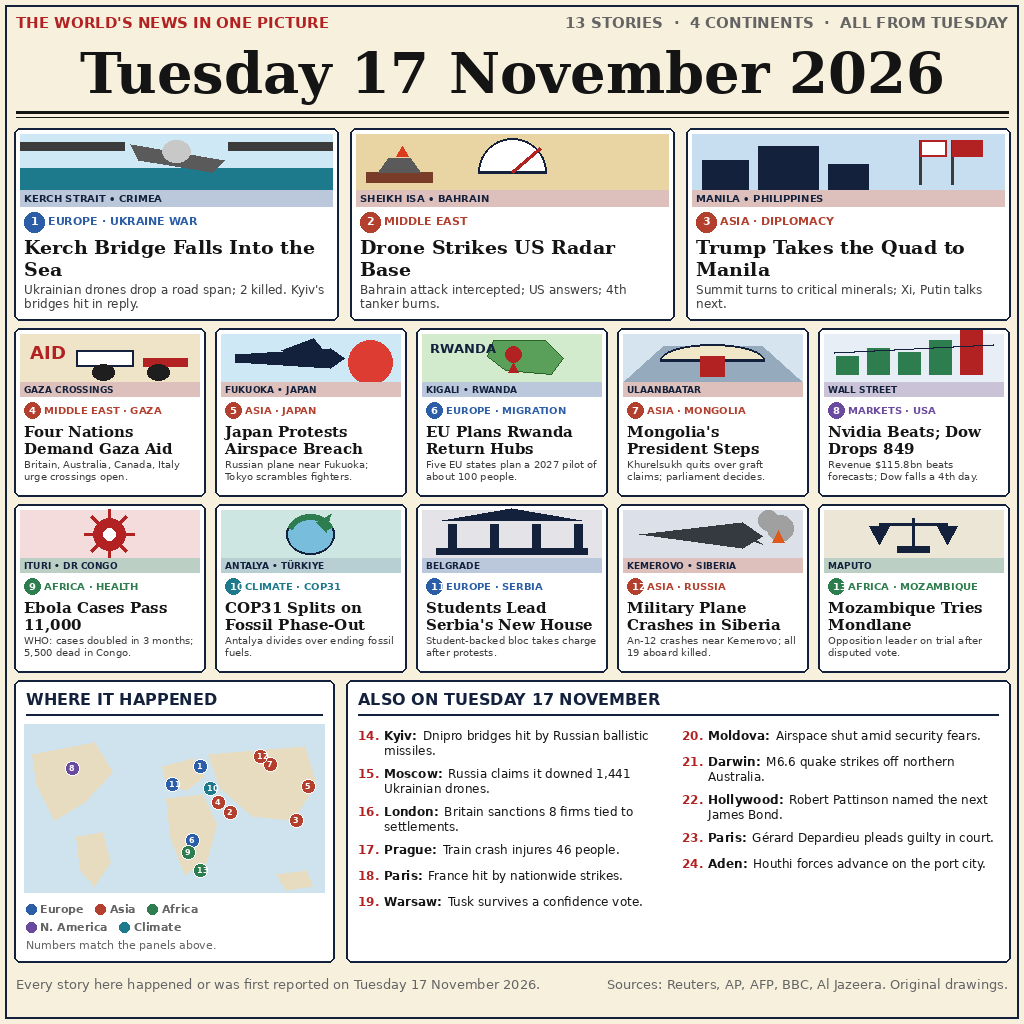
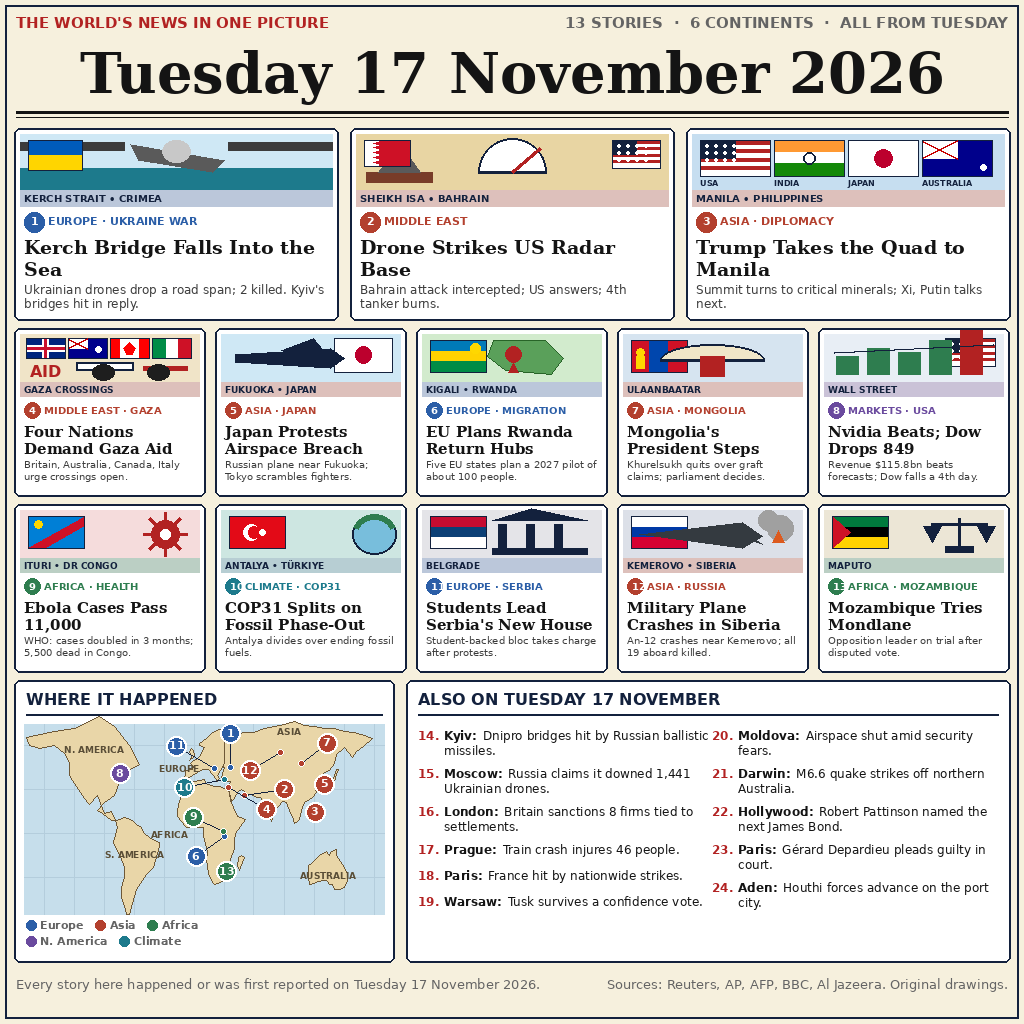
Revise: clearer world map and country flags

diff --git a/tools/generate-image.py b/tools/generate-image.py
@@ -47,13 +47,91 @@ def wrap(draw, text, fnt, width):
         lines.append(cur)
     return lines
 
+# ---------- flags (simple, recognisable patterns, drawn from scratch) ----------
+def stripes(x, y, w, h, cols):
+    n = len(cols)
+    for i, c in enumerate(cols):
+        d.rectangle([x, y + i * h // n, x + w, y + (i + 1) * h // n], fill=c)
+
+def flag(kind, x, y, w, h):
+    """Draw a small but recognisable flag; always with a thin outline."""
+    d.rectangle([x, y, x + w, y + h], fill=(255, 255, 255), outline=NAVY, width=1)
+    if kind == "us":
+        stripes(x + 1, y + 1, w - 2, h - 2, [(178, 34, 34), (255, 255, 255)] * 4)
+        d.rectangle([x + 1, y + 1, x + w // 2, y + h // 2], fill=NAVY)
+        for r in range(3):
+            for c in range(4):
+                d.ellipse([x + 5 + c * 9, y + 4 + r * 7, x + 8 + c * 9, y + 7 + r * 7], fill=(255, 255, 255))
+    elif kind == "jp":
+        d.ellipse([x + w // 2 - h // 4, y + h // 4, x + w // 2 + h // 4, y + 3 * h // 4], fill=(188, 0, 45))
+    elif kind == "ukraine":
+        stripes(x + 1, y + 1, w - 2, h - 2, [(0, 91, 187), (255, 213, 0)])
+    elif kind == "mongolia":
+        d.rectangle([x + 1, y + 1, x + w // 3, y + h - 1], fill=(206, 17, 38))
+        d.rectangle([x + w // 3, y + 1, x + 2 * w // 3, y + h - 1], fill=(0, 70, 173))
+        d.rectangle([x + 2 * w // 3, y + 1, x + w - 1, y + h - 1], fill=(206, 17, 38))
+        d.ellipse([x + 5, y + h // 4, x + 13, y + h // 4 + 8], fill=(255, 215, 0))
+        d.rectangle([x + 5, y + h // 2, x + 13, y + h - 4], fill=(255, 215, 0))
+    elif kind == "serbia":
+        stripes(x + 1, y + 1, w - 2, h - 2, [(198, 12, 48), (12, 64, 118), (255, 255, 255)])
+    elif kind == "mozambique":
+        stripes(x + 1, y + 1, w - 2, h - 2, [(0, 122, 61), (0, 0, 0), (255, 210, 0)])
+        d.polygon([(x + 1, y + 1), (x + w // 3, y + h // 2), (x + 1, y + h - 1)], fill=(206, 17, 38))
+    elif kind == "philippines":
+        d.rectangle([x + 1, y + 1, x + w - 1, y + h // 2], fill=(0, 56, 168))
+        d.rectangle([x + 1, y + h // 2, x + w - 1, y + h - 1], fill=(206, 17, 38))
+        d.polygon([(x + 1, y + 1), (x + w // 2, y + h // 2), (x + 1, y + h - 1)], fill=(255, 255, 255))
+        d.ellipse([x + 6, y + h // 2 - 4, x + 14, y + h // 2 + 4], fill=(255, 215, 0))
+    elif kind == "rwanda":
+        stripes(x + 1, y + 1, w - 2, h - 2, [(0, 122, 184), (255, 210, 0), (0, 140, 70)])
+        d.ellipse([x + w - 16, y + 3, x + w - 6, y + 13], fill=(255, 215, 0))
+    elif kind == "congo":
+        d.rectangle([x + 1, y + 1, x + w - 1, y + h - 1], fill=(0, 127, 214))
+        d.polygon([(x + 1, y + h - 1), (x + w - 1, y + 1), (x + w - 1, y + h // 3), (x + w // 3, y + h - 1)], fill=(206, 17, 38))
+        d.ellipse([x + 6, y + 4, x + 14, y + 12], fill=(255, 215, 0))
+    elif kind == "turkiye":
+        d.rectangle([x + 1, y + 1, x + w - 1, y + h - 1], fill=(227, 10, 23))
+        d.ellipse([x + w // 4, y + h // 4, x + w // 4 + h // 2, y + 3 * h // 4], fill=(255, 255, 255))
+        d.ellipse([x + w // 4 + 5, y + h // 4 + 2, x + w // 4 + h // 2, y + 3 * h // 4 - 2], fill=(227, 10, 23))
+        d.ellipse([x + w // 2 + 2, y + h // 2 - 3, x + w // 2 + 8, y + h // 2 + 3], fill=(255, 255, 255))
+    elif kind == "india":
+        stripes(x + 1, y + 1, w - 2, h - 2, [(255, 153, 51), (255, 255, 255), (19, 136, 8)])
+        d.ellipse([x + w // 2 - 6, y + h // 2 - 6, x + w // 2 + 6, y + h // 2 + 6], outline=NAVY, width=2)
+    elif kind == "australia":
+        d.rectangle([x + 1, y + 1, x + w - 1, y + h - 1], fill=(0, 0, 139))
+        d.rectangle([x + 1, y + 1, x + w // 2, y + h // 2], fill=(255, 255, 255))
+        d.line([x + 1, y + 1, x + w // 2, y + h // 2], fill=(200, 0, 0), width=2)
+        d.line([x + w // 2, y + 1, x + 1, y + h // 2], fill=(200, 0, 0), width=2)
+        d.ellipse([x + w - 12, y + h - 12, x + w - 6, y + h - 6], fill=(255, 255, 255))
+    elif kind == "uk":
+        d.rectangle([x + 1, y + 1, x + w - 1, y + h - 1], fill=(0, 36, 125))
+        d.rectangle([x + w // 2 - 3, y + 1, x + w // 2 + 3, y + h - 1], fill=(255, 255, 255))
+        d.rectangle([x + 1, y + h // 2 - 3, x + w - 1, y + h // 2 + 3], fill=(255, 255, 255))
+        d.rectangle([x + w // 2 - 1, y + 1, x + w // 2 + 1, y + h - 1], fill=(200, 16, 46))
+        d.rectangle([x + 1, y + h // 2 - 1, x + w - 1, y + h // 2 + 1], fill=(200, 16, 46))
+    elif kind == "canada":
+        d.rectangle([x + 1, y + 1, x + w // 4, y + h - 1], fill=(255, 0, 0))
+        d.rectangle([x + 3 * w // 4, y + 1, x + w - 1, y + h - 1], fill=(255, 0, 0))
+        d.polygon([(x + w // 2, y + 4), (x + w // 2 + 6, y + h // 2), (x + w // 2 + 3, y + h - 4),
+                   (x + w // 2 - 3, y + h - 4), (x + w // 2 - 6, y + h // 2)], fill=(255, 0, 0))
+    elif kind == "italy":
+        d.rectangle([x + 1, y + 1, x + w // 3, y + h - 1], fill=(0, 140, 70))
+        d.rectangle([x + 2 * w // 3, y + 1, x + w - 1, y + h - 1], fill=(206, 17, 38))
+    elif kind == "bahrain":
+        d.rectangle([x + w // 3, y + 1, x + w - 1, y + h - 1], fill=(206, 17, 38))
+        for i in range(5):
+            yy = y + 1 + i * (h - 2) // 5
+            d.polygon([(x + w // 3, yy), (x + w // 3 - 6, yy + (h - 2) // 10), (x + w // 3, yy + (h - 2) // 5)], fill=(206, 17, 38))
+    elif kind == "russia":
+        stripes(x + 1, y + 1, w - 2, h - 2, [(255, 255, 255), (0, 57, 166), (213, 0, 50)])
+
 img = Image.new("RGB", (W, H), PAPER)
 d = ImageDraw.Draw(img)
 d.rectangle([5, 5, W - 6, H - 6], outline=NAVY, width=2)
 
 # ---------- header ----------
 d.text((16, 14), "THE WORLD'S NEWS IN ONE PICTURE", font=font(SANSB, 15), fill=RED)
-right = "13 STORIES  ·  4 CONTINENTS  ·  ALL FROM TUESDAY"
+right = "13 STORIES  ·  6 CONTINENTS  ·  ALL FROM TUESDAY"
 d.text((W - 16 - d.textlength(right, font=font(SANSB, 15)), 14), right,
        font=font(SANSB, 15), fill=GREY)
 # ---------- giant date ----------
@@ -73,6 +151,7 @@ def pic(kind, x, y, w, h):
         d.polygon([(x + w // 3 + 6, y + h - 46), (x + 2 * w // 3 - 4, y + h - 30),
                    (x + 2 * w // 3 - 16, y + h - 18), (x + w // 3 + 14, y + h - 30)], fill=(90, 90, 90))
         d.ellipse([x + w // 2 - 14, y + 6, x + w // 2 + 14, y + 28], fill=(200, 200, 200))
+        flag("ukraine", x + 8, y + 6, 54, 30)
     elif kind == "radar":
         d.rectangle([x, y, x + w, y + h], fill=(232, 213, 163))
         d.pieslice([x + w // 2 - 34, y + 4, x + w // 2 + 34, y + 72], 180, 360,
@@ -82,42 +161,47 @@ def pic(kind, x, y, w, h):
         d.polygon([(x + 22, y + h - 18), (x + 64, y + h - 18), (x + 54, y + h - 32), (x + 32, y + h - 32)],
                   fill=(90, 90, 90))
         d.polygon([(x + 40, y + h - 34), (x + 46, y + h - 44), (x + 52, y + h - 34)], fill=(220, 60, 30))
+        flag("bahrain", x + 8, y + 6, 46, 26)
+        flag("us", x + w - 56, y + 6, 48, 28)
     elif kind == "summit":
         d.rectangle([x, y, x + w, y + h], fill=(198, 222, 240))
-        for bx, bw, bh in [(x + 10, 46, 30), (x + 66, 60, 44), (x + 136, 40, 26)]:
-            d.rectangle([bx, y + h - bh, bx + bw, y + h], fill=NAVY)
-        d.line([x + w - 52, y + 6, x + w - 52, y + h - 6], fill=(60, 60, 60), width=3)
-        d.rectangle([x + w - 52, y + 6, x + w - 22, y + 22], fill=RED)
-        d.line([x + w - 84, y + 6, x + w - 84, y + h - 6], fill=(60, 60, 60), width=3)
-        d.rectangle([x + w - 84, y + 6, x + w - 58, y + 22], fill=(255, 255, 255), outline=RED, width=2)
+        fw = (w - 32) // 4
+        for i, (fk, lab) in enumerate([("us", "USA"), ("india", "INDIA"), ("jp", "JAPAN"), ("australia", "AUSTRALIA")]):
+            fx = x + 8 + i * (fw + 4)
+            flag(fk, fx, y + 6, fw, 36)
+            d.text((fx, y + 44), lab, font=font(SANSB, 8), fill=NAVY)
     elif kind == "truck":
         d.rectangle([x, y, x + w, y + h], fill=(240, 228, 200))
-        d.rectangle([x + 56, y + 16, x + w - 66, y + h - 16], fill=(255, 255, 255), outline=NAVY, width=2)
-        d.rectangle([x + w - 56, y + 24, x + w - 12, y + h - 16], fill=RED)
+        fw = (w - 20) // 4
+        for i, fk in enumerate(["uk", "australia", "canada", "italy"]):
+            flag(fk, x + 6 + i * (fw + 3), y + 4, fw, 20)
+        d.rectangle([x + 56, y + 28, x + w - 66, y + h - 12], fill=(255, 255, 255), outline=NAVY, width=2)
+        d.rectangle([x + w - 56, y + 32, x + w - 12, y + h - 12], fill=RED)
         d.ellipse([x + 72, y + h - 18, x + 94, y + h - 2], fill=(30, 30, 30))
         d.ellipse([x + w - 52, y + h - 18, x + w - 30, y + h - 2], fill=(30, 30, 30))
-        d.text((x + 10, y + 8), "AID", font=font(SANSB, 18), fill=RED)
+        d.text((x + 10, y + 28), "AID", font=font(SANSB, 16), fill=RED)
     elif kind == "jet":
         d.rectangle([x, y, x + w, y + h], fill=(207, 232, 245))
-        d.ellipse([x + w - 52, y + 6, x + w - 8, y + 50], fill=(220, 60, 50))
+        flag("jp", x + w - 66, y + 4, 58, 34)
         d.polygon([(x + 14, y + h // 2 - 4), (x + w - 70, y + h // 2 - 10), (x + w - 56, y + h // 2),
                    (x + w - 70, y + h // 2 + 10), (x + 14, y + h // 2 + 4)], fill=NAVY)
         d.polygon([(x + 60, y + h // 2 - 8), (x + 92, y + 4), (x + 102, y + h // 2 - 8)], fill=NAVY)
     elif kind == "map":
         d.rectangle([x, y, x + w, y + h], fill=(210, 235, 205))
+        flag("rwanda", x + 8, y + 6, 56, 32)
         d.polygon([(x + w // 2 - 18, y + 6), (x + w // 2 + 34, y + 6), (x + w // 2 + 52, y + 24),
                    (x + w // 2 + 40, y + h - 8), (x + w // 2 - 6, y + h - 12), (x + w // 2 - 24, y + 22)],
                   fill=(90, 160, 90), outline=(40, 100, 40))
         d.ellipse([x + w // 2 - 6, y + 12, x + w // 2 + 10, y + 28], fill=RED)
         d.polygon([(x + w // 2 + 2, y + 28), (x + w // 2 - 3, y + 38), (x + w // 2 + 7, y + 38)], fill=RED)
-        d.text((x + 8, y + 6), "RWANDA", font=font(SANSB, 13), fill=NAVY)
     elif kind == "yurt":
         d.rectangle([x, y, x + w, y + h], fill=(214, 228, 240))
-        d.polygon([(x, y + h), (x + 40, y + 12), (x + w - 40, y + 12), (x + w, y + h)], fill=(150, 170, 190))
+        flag("mongolia", x + 8, y + 6, 56, 32)
         d.pieslice([x + w // 2 - 52, y + 10, x + w // 2 + 52, y + h - 6], 180, 360, fill=(240, 230, 200), outline=NAVY, width=2)
         d.rectangle([x + w // 2 - 12, y + h - 26, x + w // 2 + 12, y + h - 6], fill=RED)
     elif kind == "chart":
         d.rectangle([x, y, x + w, y + h], fill=(232, 238, 245))
+        flag("us", x + w - 58, y + 4, 50, 28)
         bars = [18, 26, 22, 34, 44]
         for i, bh in enumerate(bars):
             bx = x + 12 + i * ((w - 24) // 5)
@@ -125,27 +209,30 @@ def pic(kind, x, y, w, h):
         d.line([x + 10, y + h - 30, x + w - 10, y + 10], fill=NAVY, width=2)
     elif kind == "virus":
         d.rectangle([x, y, x + w, y + h], fill=(245, 220, 220))
-        cx, cy, r = x + w // 2, y + h // 2, 16
+        flag("congo", x + 8, y + 6, 56, 32)
+        cx, cy, r = x + w - 34, y + h // 2, 14
         for ang in range(0, 360, 45):
             import math
             dx, dy = math.cos(math.radians(ang)), math.sin(math.radians(ang))
-            d.line([cx + dx * r, cy + dy * r, cx + dx * (r + 9), cy + dy * (r + 9)], fill=RED, width=3)
+            d.line([cx + dx * r, cy + dy * r, cx + dx * (r + 8), cy + dy * (r + 8)], fill=RED, width=3)
         d.ellipse([cx - r, cy - r, cx + r, cy + r], fill=RED)
-        d.ellipse([cx - 6, cy - 6, cx + 6, cy + 6], fill=(255, 255, 255))
+        d.ellipse([cx - 5, cy - 5, cx + 5, cy + 5], fill=(255, 255, 255))
     elif kind == "globe":
         d.rectangle([x, y, x + w, y + h], fill=(205, 230, 225))
-        d.ellipse([x + w // 2 - 24, y + 4, x + w // 2 + 24, y + h - 4], fill=(120, 190, 220), outline=NAVY, width=2)
-        d.arc([x + w // 2 - 24, y + 4, x + w // 2 + 24, y + h - 4], 200, 340, fill=GREEN, width=6)
-        d.polygon([(x + w // 2 + 6, y + 12), (x + w // 2 + 20, y + 4), (x + w // 2 + 16, y + 22)], fill=GREEN)
+        flag("turkiye", x + 8, y + 6, 56, 32)
+        d.ellipse([x + w - 48, y + 4, x + w - 4, y + h - 4], fill=(120, 190, 220), outline=NAVY, width=2)
+        d.arc([x + w - 48, y + 4, x + w - 4, y + h - 4], 200, 340, fill=GREEN, width=6)
     elif kind == "parliament":
         d.rectangle([x, y, x + w, y + h], fill=(228, 228, 232))
-        d.polygon([(x + 20, y + 10), (x + w // 2, y - 2), (x + w - 20, y + 10)], fill=NAVY)
-        for i in range(4):
-            cx = x + 26 + i * ((w - 52) // 3)
+        flag("serbia", x + 8, y + 6, 56, 32)
+        d.polygon([(x + 70, y + 10), (x + w // 2 + 20, y - 2), (x + w - 14, y + 10)], fill=NAVY)
+        for i in range(3):
+            cx = x + 76 + i * 28
             d.rectangle([cx, y + 14, cx + 8, y + h - 8], fill=NAVY)
-        d.rectangle([x + 14, y + h - 10, x + w - 14, y + h - 4], fill=NAVY)
+        d.rectangle([x + 70, y + h - 10, x + w - 14, y + h - 4], fill=NAVY)
     elif kind == "crash":
         d.rectangle([x, y, x + w, y + h], fill=(220, 224, 232))
+        flag("russia", x + 8, y + 6, 56, 32)
         d.polygon([(x + 16, y + h // 2), (x + w - 60, y + h // 2 - 12), (x + w - 40, y + h // 2 + 2),
                    (x + w - 60, y + h // 2 + 14)], fill=SLATE)
         d.polygon([(x + w - 66, y + h // 2 - 8), (x + w - 40, y + h - 14), (x + w - 52, y + h // 2 + 6)], fill=SLATE)
@@ -154,11 +241,12 @@ def pic(kind, x, y, w, h):
         d.polygon([(x + w - 30, y + h - 16), (x + w - 24, y + h - 28), (x + w - 18, y + h - 16)], fill=(220, 90, 30))
     elif kind == "scales":
         d.rectangle([x, y, x + w, y + h], fill=(236, 230, 214))
-        d.line([x + w // 2, y + 8, x + w // 2, y + h - 10], fill=NAVY, width=3)
-        d.line([x + w // 2 - 34, y + 14, x + w // 2 + 34, y + 14], fill=NAVY, width=3)
-        d.polygon([(x + w // 2 - 44, y + 16), (x + w // 2 - 24, y + 16), (x + w // 2 - 34, y + 34)], fill=NAVY)
-        d.polygon([(x + w // 2 + 24, y + 16), (x + w // 2 + 44, y + 16), (x + w // 2 + 34, y + 34)], fill=NAVY)
-        d.rectangle([x + w // 2 - 16, y + h - 12, x + w // 2 + 16, y + h - 6], fill=NAVY)
+        flag("mozambique", x + 8, y + 6, 56, 32)
+        d.line([x + w - 44, y + 8, x + w - 44, y + h - 10], fill=NAVY, width=3)
+        d.line([x + w - 72, y + 14, x + w - 16, y + 14], fill=NAVY, width=3)
+        d.polygon([(x + w - 80, y + 16), (x + w - 62, y + 16), (x + w - 71, y + 32)], fill=NAVY)
+        d.polygon([(x + w - 26, y + 16), (x + w - 8, y + 16), (x + w - 17, y + 32)], fill=NAVY)
+        d.rectangle([x + w - 58, y + h - 12, x + w - 30, y + h - 6], fill=NAVY)
 
 # ---------- panels ----------
 # (num, category, colour, headline, dek, caption, pic, region)
@@ -241,34 +329,62 @@ for row, group in enumerate((PANELS[3:8], PANELS[8:13])):
 
 # ---------- bottom: map + also list ----------
 by = 680
-# map panel (left, ~1/3)
-mx, mw, mh = 14, 320, 282
+# map panel (left, wider now so the world map can actually be read)
+mx, mw, mh = 14, 380, 282
 d.rounded_rectangle([mx, by, mx + mw, by + mh], radius=6, fill=(255, 255, 255), outline=NAVY, width=2)
 d.text((mx + 12, by + 10), "WHERE IT HAPPENED", font=font(SANSB, 16), fill=NAVY)
 d.line([mx + 12, by + 34, mx + mw - 12, by + 34], fill=NAVY, width=2)
-mapx, mapy, mapw, maph = mx + 10, by + 44, mw - 20, 168
-d.rectangle([mapx, mapy, mapx + mapw, mapy + maph], fill=(207, 227, 238))
-# simplified continents (cream land on pale sea)
-d.polygon([(mapx + 8, mapy + 30), (mapx + 70, mapy + 18), (mapx + 88, mapy + 48), (mapx + 60, mapy + 78),
-           (mapx + 30, mapy + 96), (mapx + 12, mapy + 60)], fill=(232, 220, 192))          # N America
-d.polygon([(mapx + 52, mapy + 112), (mapx + 78, mapy + 108), (mapx + 86, mapy + 138), (mapx + 70, mapy + 162),
-           (mapx + 56, mapy + 146)], fill=(232, 220, 192))                                 # S America
-d.polygon([(mapx + 138, mapy + 42), (mapx + 168, mapy + 34), (mapx + 180, mapy + 52), (mapx + 162, mapy + 66),
-           (mapx + 142, mapy + 60)], fill=(232, 220, 192))                                 # Europe
-d.polygon([(mapx + 142, mapy + 74), (mapx + 178, mapy + 70), (mapx + 192, mapy + 100), (mapx + 182, mapy + 138),
-           (mapx + 160, mapy + 150), (mapx + 146, mapy + 112)], fill=(232, 220, 192))      # Africa
-d.polygon([(mapx + 184, mapy + 30), (mapx + 280, mapy + 22), (mapx + 292, mapy + 60), (mapx + 268, mapy + 96),
-           (mapx + 228, mapy + 92), (mapx + 196, mapy + 64)], fill=(232, 220, 192))        # Asia
-d.polygon([(mapx + 252, mapy + 150), (mapx + 282, mapy + 146), (mapx + 288, mapy + 162), (mapx + 262, mapy + 166)],
-          fill=(232, 220, 192))                                                           # Australia
-PINS = {1: (176, 42), 2: (206, 88), 3: (272, 96), 4: (194, 78), 5: (284, 62), 6: (168, 116),
-        7: (246, 40), 8: (48, 44), 9: (164, 128), 10: (186, 64), 11: (148, 60), 12: (236, 32), 13: (176, 146)}
+mapx, mapy, mapw, maph = mx + 10, by + 44, mw - 20, 190
+d.rectangle([mapx, mapy, mapx + mapw, mapy + maph], fill=(198, 222, 235))
+# equirectangular projection: lon -170..190, lat 75..-55
+def ll(lon, lat):
+    return (mapx + (lon + 170) / 360 * mapw, mapy + (75 - lat) / 130 * maph)
+def land(poly, label=None, lab_lon=None, lab_lat=None):
+    pts = [ll(lo, la) for lo, la in poly]
+    d.polygon(pts, fill=(233, 214, 168), outline=(110, 88, 55), width=1)
+    if label:
+        lx_, ly_ = ll(lab_lon, lab_lat)
+        f = font(SANSB, 9)
+        d.text((lx_ - d.textlength(label, font=f) / 2, ly_ - 5), label, font=f, fill=(90, 78, 55))
+# light graticule
+for lo in range(-150, 181, 30):
+    x0, _ = ll(lo, 0)
+    d.line([x0, mapy, x0, mapy + maph], fill=(180, 205, 220), width=1)
+for la in (60, 30, 0, -30):
+    _, y0 = ll(0, la)
+    d.line([mapx, y0, mapx + mapw, y0], fill=(180, 205, 220), width=1)
+LAND = [
+    ([(-168, 66), (-140, 70), (-120, 72), (-95, 80), (-80, 73), (-65, 60), (-55, 47), (-70, 42), (-75, 35), (-80, 26), (-90, 21), (-97, 16), (-92, 14), (-83, 9), (-79, 9), (-83, 15), (-90, 14), (-97, 26), (-105, 20), (-110, 24), (-120, 34), (-125, 40), (-125, 49), (-130, 55), (-140, 60), (-155, 58), (-165, 60)], "N. AMERICA", -100, 58),
+    ([(-79, 9), (-77, 4), (-80, -3), (-81, -6), (-77, -12), (-72, -18), (-70, -23), (-70, -30), (-72, -37), (-73, -44), (-70, -50), (-68, -55), (-65, -55), (-62, -48), (-58, -38), (-52, -32), (-48, -28), (-41, -23), (-35, -9), (-35, -6), (-44, -3), (-50, 0), (-53, 4), (-58, 6), (-62, 9), (-70, 11), (-75, 10)], "S. AMERICA", -60, -14),
+    ([(-10, 36), (-9, 43), (-2, 44), (-1, 46), (-4, 48), (-1, 50), (2, 51), (5, 53), (8, 57), (10, 59), (5, 60), (5, 62), (12, 65), (18, 69), (25, 71), (30, 70), (35, 68), (40, 68), (45, 65), (48, 60), (45, 55), (40, 50), (38, 46), (32, 46), (28, 45), (23, 40), (26, 38), (23, 36), (19, 40), (15, 44), (12, 44), (8, 44), (3, 42), (-9, 37)], "EUROPE", -15, 45),
+    ([(-5, 50), (-3, 53), (-5, 56), (-3, 58), (-1, 57), (0, 53)], None, None, None),
+    ([(-17, 15), (-16, 20), (-13, 27), (-10, 31), (-6, 35), (0, 36), (10, 37), (11, 34), (20, 32), (25, 32), (30, 31), (32, 31), (35, 28), (37, 22), (39, 18), (43, 12), (48, 11), (51, 10), (46, 5), (41, 0), (40, -5), (40, -10), (36, -18), (33, -26), (28, -33), (20, -35), (17, -32), (15, -27), (12, -18), (13, -12), (9, -1), (9, 4), (-8, 4), (-13, 8), (-17, 12)], "AFRICA", -25, 0),
+    ([(44, -16), (47, -15), (50, -16), (49, -20), (45, -25), (43, -22)], None, None, None),
+    ([(30, 70), (40, 68), (50, 69), (60, 69), (70, 72), (80, 73), (90, 75), (100, 77), (110, 74), (120, 73), (130, 72), (140, 72), (150, 70), (160, 69), (170, 67), (178, 65), (170, 60), (162, 56), (158, 52), (150, 59), (142, 54), (140, 48), (135, 43), (130, 42), (127, 40), (122, 38), (120, 32), (122, 28), (118, 25), (110, 21), (108, 18), (105, 10), (103, 8), (100, 7), (98, 12), (95, 16), (92, 21), (88, 22), (85, 19), (80, 15), (77, 8), (75, 12), (72, 20), (68, 23), (66, 25), (62, 25), (58, 26), (56, 27), (52, 26), (50, 29), (48, 30), (44, 29), (42, 27), (40, 24), (38, 22), (35, 28), (34, 31), (36, 36), (30, 36), (27, 38), (28, 41), (30, 45), (28, 46), (30, 48), (30, 60)], "ASIA", 95, 70),
+    ([(130, 31), (133, 33), (136, 34), (139, 35), (141, 38), (142, 41), (144, 44), (142, 44), (140, 40), (137, 35), (133, 32)], None, None, None),
+    ([(114, -22), (114, -30), (115, -35), (120, -34), (124, -33), (129, -32), (132, -32), (135, -35), (138, -35), (140, -38), (145, -38), (150, -37), (153, -32), (153, -27), (150, -23), (146, -19), (142, -15), (142, -11), (137, -12), (135, -15), (132, -12), (130, -13), (126, -14), (122, -17), (118, -20)], "AUSTRALIA", 134, -28),
+]
+for poly, lab, llo, lla in LAND:
+    land(poly, lab, llo, lla)
+# numbered pins: (lon, lat, label dx, label dy) — clustered pins get a
+# leader line from their true spot to a spread-out numbered circle
+PINS = {1: (37, 45, 0, -34), 2: (50.5, 26, 40, -6), 3: (121, 14.5, 0, 0),
+        4: (34.5, 31.5, 38, 22), 5: (130.5, 33.6, 0, 0), 6: (30, -2, -28, 20),
+        7: (107, 48, 26, -20), 8: (-74, 41, 0, 0), 9: (29.5, 1.5, -30, -14),
+        10: (30.7, 36.9, -40, 8), 11: (20.5, 44.8, -38, -22),
+        12: (86, 55.3, -30, 18), 13: (32.6, -26, 0, 0)}
 PINCOL = {1: BLUE, 2: CRIMSON, 3: CRIMSON, 4: CRIMSON, 5: CRIMSON, 6: BLUE, 7: CRIMSON, 8: PURPLE,
           9: GREEN, 10: TEAL, 11: BLUE, 12: CRIMSON, 13: GREEN}
-for n, (px, py) in PINS.items():
-    d.ellipse([mapx + px - 7, mapy + py - 7, mapx + px + 7, mapy + py + 7], fill=PINCOL[n], outline=(255, 255, 255), width=1)
-    d.text((mapx + px - 3, mapy + py - 5), str(n), font=font(SANSB, 8), fill=(255, 255, 255))
-ly = by + 222
+for n, (lo, la, dx, dy) in PINS.items():
+    px, py = ll(lo, la)
+    cx, cy = px + dx, py + dy
+    if dx or dy:
+        d.line([px, py, cx, cy], fill=NAVY, width=1)
+        d.ellipse([px - 3, py - 3, px + 3, py + 3], fill=PINCOL[n], outline=(255, 255, 255), width=1)
+    d.ellipse([cx - 10, cy - 10, cx + 10, cy + 10], fill=PINCOL[n], outline=(255, 255, 255), width=2)
+    nf = font(SANSB, 11)
+    d.text((cx - d.textlength(str(n), font=nf) / 2, cy - 8), str(n), font=nf, fill=(255, 255, 255))
+ly = by + 238
 lx_leg = mx + 12
 for col, label in [(BLUE, "Europe"), (CRIMSON, "Asia"), (GREEN, "Africa"), (PURPLE, "N. America"), (TEAL, "Climate")]:
     d.ellipse([lx_leg, ly + 2, lx_leg + 10, ly + 12], fill=col)
@@ -276,13 +392,11 @@ for col, label in [(BLUE, "Europe"), (CRIMSON, "Asia"), (GREEN, "Africa"), (PURP
     d.text((lx_leg, ly), label, font=font(SANSB, 11), fill=GREY)
     lx_leg += d.textlength(label, font=font(SANSB, 11)) + 12
     if label == "Africa":
-        ly += 18
+        ly += 16
         lx_leg = mx + 12
-d.text((mx + 12, by + 258), "Numbers match the panels above.",
-       font=font(SANS, 11), fill=GREY)
 
-# also list (right, ~2/3)
-lx, lw = 346, 664
+# also list (right)
+lx, lw = 406, 604
 d.rounded_rectangle([lx, by, lx + lw, by + mh], radius=6, fill=(255, 255, 255), outline=NAVY, width=2)
 d.text((lx + 12, by + 10), "ALSO ON TUESDAY 17 NOVEMBER", font=font(SANSB, 16), fill=NAVY)
 d.line([lx + 12, by + 34, lx + lw - 12, by + 34], fill=NAVY, width=2)
@@ -299,7 +413,7 @@ ALSO = [
     ("Paris:", " Gérard Depardieu pleads guilty in court."),
     ("Aden:", " Houthi forces advance on the port city."),
 ]
-col_w = 316
+col_w = 286
 for ci in range(2):
     items = ALSO[ci * 6:(ci + 1) * 6]
     cx = lx + 12 + ci * (col_w + 8)
